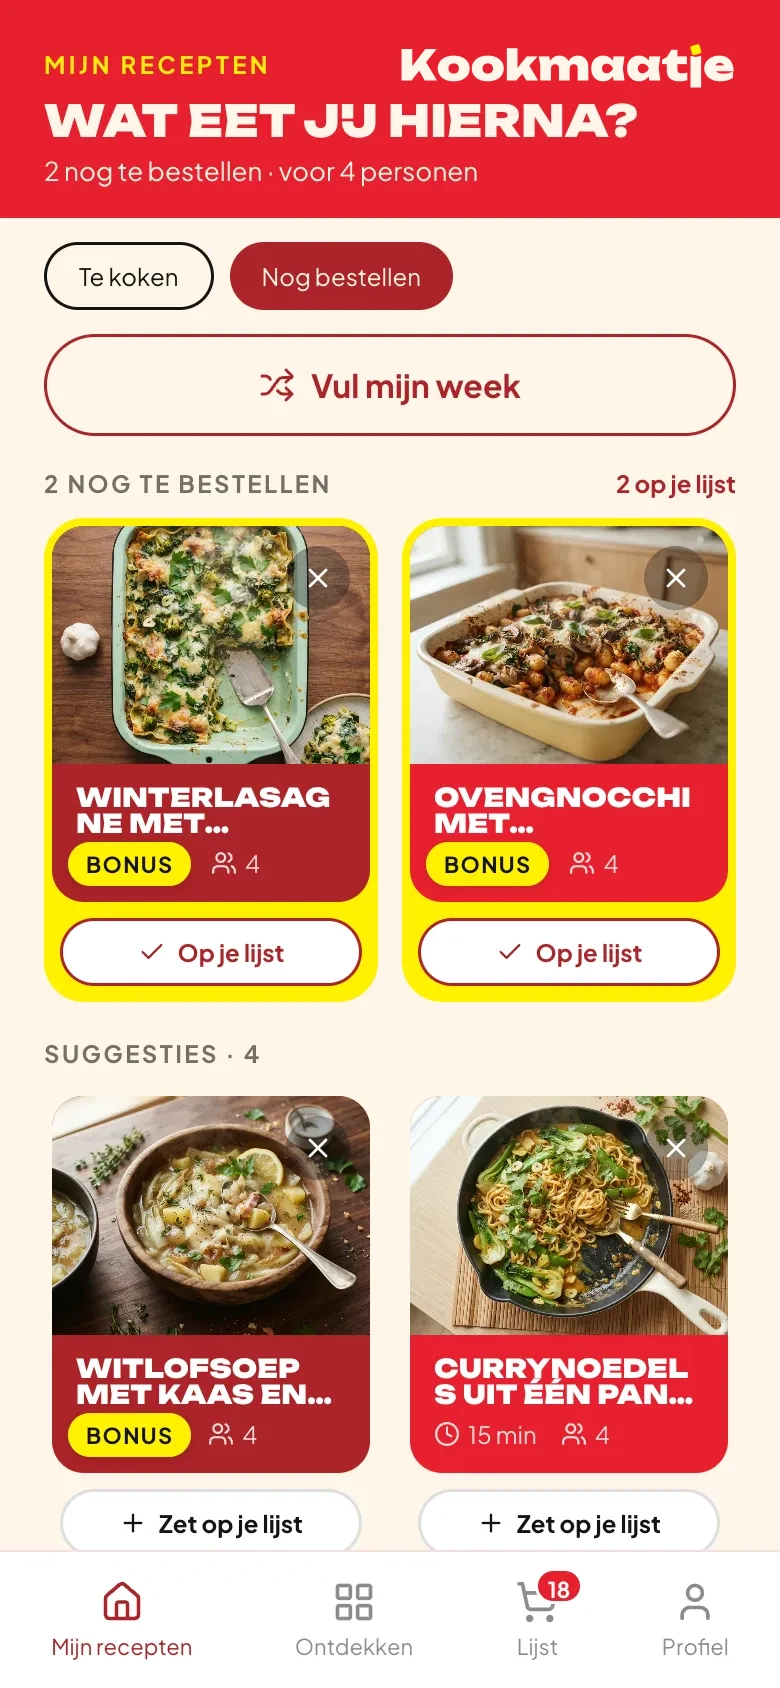
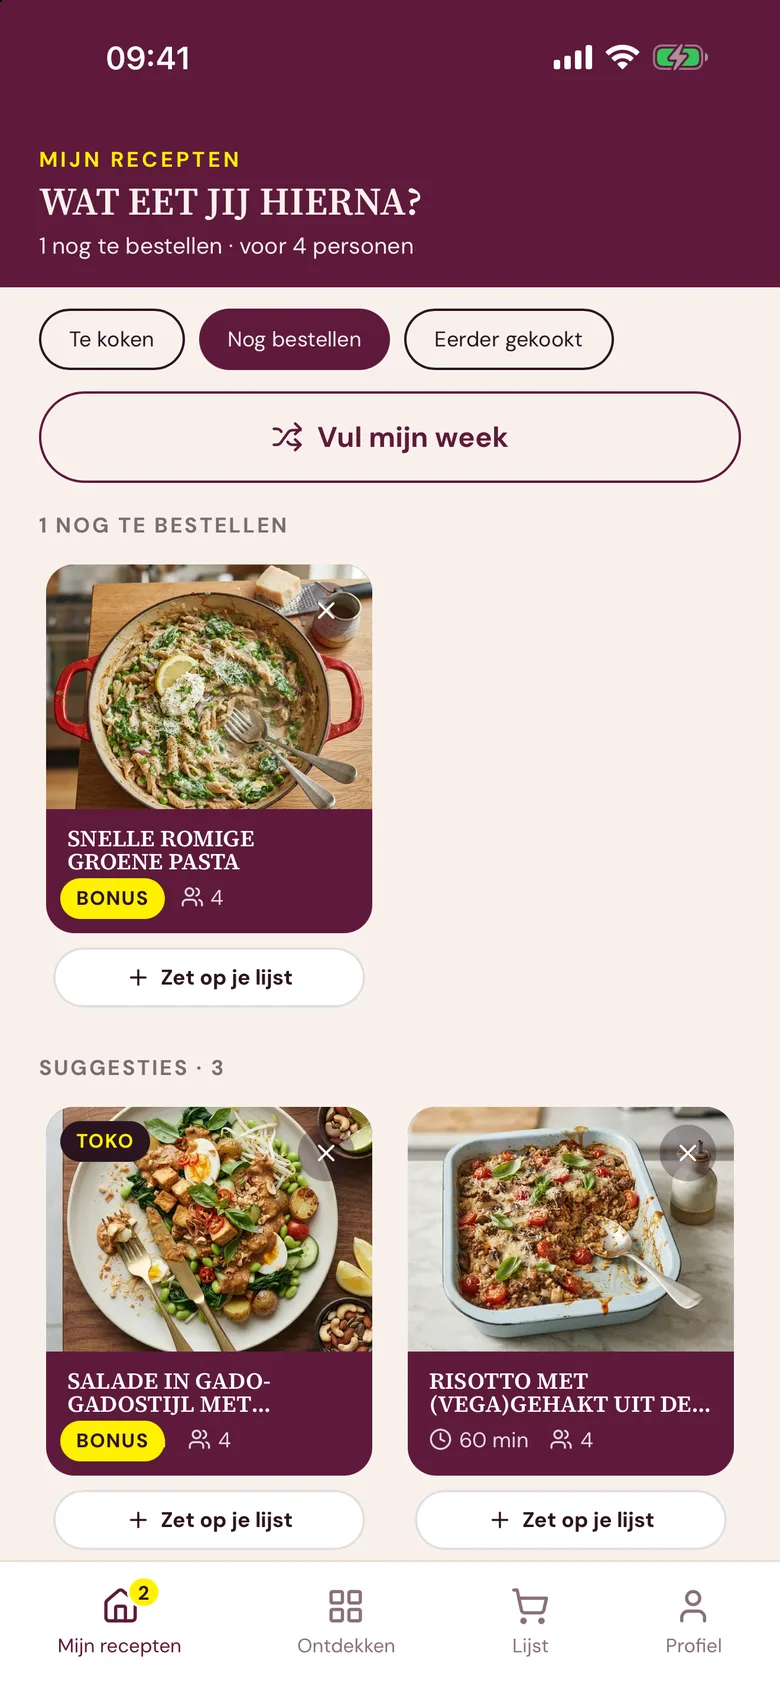
Uitleg: nieuwe schermafbeeldingen in het pruim-palet, kaarten Te koken en Naar je supermarkt bijgewerkt (#154)

diff --git a/app/src/components/Uitleg.tsx b/app/src/components/Uitleg.tsx
@@ -2,6 +2,7 @@ import { useEffect, useRef, useState } from 'react'
 import { Button, IconButton } from '../ds'
 import ontdekken from '../assets/uitleg/ontdekken.webp'
 import mijnRecepten from '../assets/uitleg/mijn-recepten.webp'
+import teKoken from '../assets/uitleg/te-koken.webp'
 import voorraadkast from '../assets/uitleg/voorraadkast.webp'
 import lijst from '../assets/uitleg/lijst.webp'
 
@@ -12,7 +13,7 @@ import lijst from '../assets/uitleg/lijst.webp'
  * Elke kaart is een schermafbeelding van de app zelf, met één ding uitgelicht:
  * de rest is gedimd. Geen nagetekende schermen: wat je hier ziet is wat je
  * daarna tegenkomt. Verandert een scherm, maak dan een nieuwe afbeelding
- * (src/assets/uitleg/, 780 px breed; de verhouding staat per kaart) en zet het uitgelichte
+ * (src/assets/uitleg/, 780 px breed, een telefoon van 440 pt breed) en zet het uitgelichte
  * vlak opnieuw.
  */
 
@@ -37,37 +38,37 @@ const KAARTEN: Kaart[] = [
     kop: 'Zoek',
     tekst: 'Honderden recepten. Zoek op gerecht of ingrediënt, of filter op keuken, tijd, budget en dieet.',
     beeld: ontdekken, alt: 'Het scherm Ontdekken, met de zoekbalk en de filters uitgelicht.',
-    verhouding: 1688 / 780, licht: { x: 0.031, y: 0.069, b: 0.938, h: 0.217 }, rond: 18,
+    verhouding: 2868 / 1320, licht: { x: 0.03, y: 0.128, b: 0.94, h: 0.195 }, rond: 18,
   },
   {
     kop: 'Bewaar',
     tekst: 'Tik op het hartje en het recept staat in Nog bestellen, bovenaan. Daar zet je het op je lijst.',
     beeld: ontdekken, alt: 'Een receptkaart in Ontdekken, met het hartje uitgelicht.',
-    verhouding: 1688 / 780, licht: { x: 0.354, y: 0.338, b: 0.123, h: 0.111 }, rond: 999,
+    verhouding: 2868 / 1320, licht: { x: 0.382, y: 0.378, b: 0.09, h: 0.0414 }, rond: 999,
   },
   {
     kop: 'Zet op je lijst',
     tekst: 'Kies je recepten bij Nog bestellen. Kookmaatje zet alle ingrediënten op één boodschappenlijst en telt dubbele bij elkaar op.',
-    beeld: mijnRecepten, alt: 'Het scherm Mijn recepten, met een recept dat op je lijst staat uitgelicht: gele rand en de knop Op je lijst.',
-    verhouding: 1688 / 780, licht: { x: 0.049, y: 0.303, b: 0.444, h: 0.294 }, rond: 26,
+    beeld: mijnRecepten, alt: 'Het scherm Nog bestellen, met een recept en de knop Zet op je lijst uitgelicht.',
+    verhouding: 2868 / 1320, licht: { x: 0.04, y: 0.328, b: 0.44, h: 0.272 }, rond: 26,
   },
   {
     kop: 'Te koken',
-    tekst: 'Na het bestellen staan je recepten bij Te koken. Gekookt? Tik op het kruisje, dan vind je het terug onderaan Nog bestellen.',
-    beeld: mijnRecepten, alt: 'Het scherm Mijn recepten, met de knoppen Te koken en Nog bestellen uitgelicht.',
-    verhouding: 1688 / 780, licht: { x: 0.046, y: 0.139, b: 0.546, h: 0.05 }, rond: 999,
+    tekst: 'Na het bestellen staan je recepten bij Te koken. Gekookt? Tik op het kruisje en geef je gerecht een cijfer: je vindt het daarna terug bij Eerder gekookt.',
+    beeld: teKoken, alt: 'Het scherm Mijn recepten, met de knoppen Te koken, Nog bestellen en Eerder gekookt uitgelicht.',
+    verhouding: 2868 / 1320, licht: { x: 0.04, y: 0.178, b: 0.76, h: 0.045 }, rond: 999,
   },
   {
     kop: 'Voorraadkast',
     tekst: 'Laat Kookmaatje weten wat je standaard in huis hebt, zoals olie, rijst of kruiden. Dat gaat niet mee in je bestelling.',
     beeld: voorraadkast, alt: 'Het scherm Voorraadkast, met een paar producten die in huis zijn uitgelicht: azijn, bloem, boter.',
-    verhouding: 2000 / 924, licht: { x: 0.035, y: 0.405, b: 0.93, h: 0.2 }, rond: 18,
+    verhouding: 2868 / 1320, licht: { x: 0.035, y: 0.352, b: 0.93, h: 0.183 }, rond: 18,
   },
   {
     kop: 'Naar je supermarkt',
-    tekst: 'Eén tik en alles gaat naar je mandje bij AH of Jumbo.',
+    tekst: 'Eén tik en alles gaat naar je mandje bij AH of Jumbo. Of koop in je lokale supermarkt en vink de producten af.',
     beeld: lijst, alt: 'De boodschappenlijst, met de mandjeknop uitgelicht.',
-    verhouding: 2000 / 924, licht: { x: 0.045, y: 0.762, b: 0.91, h: 0.074 }, rond: 999,
+    verhouding: 2868 / 1320, licht: { x: 0.04, y: 0.82, b: 0.92, h: 0.063 }, rond: 999,
   },
 ]
 
